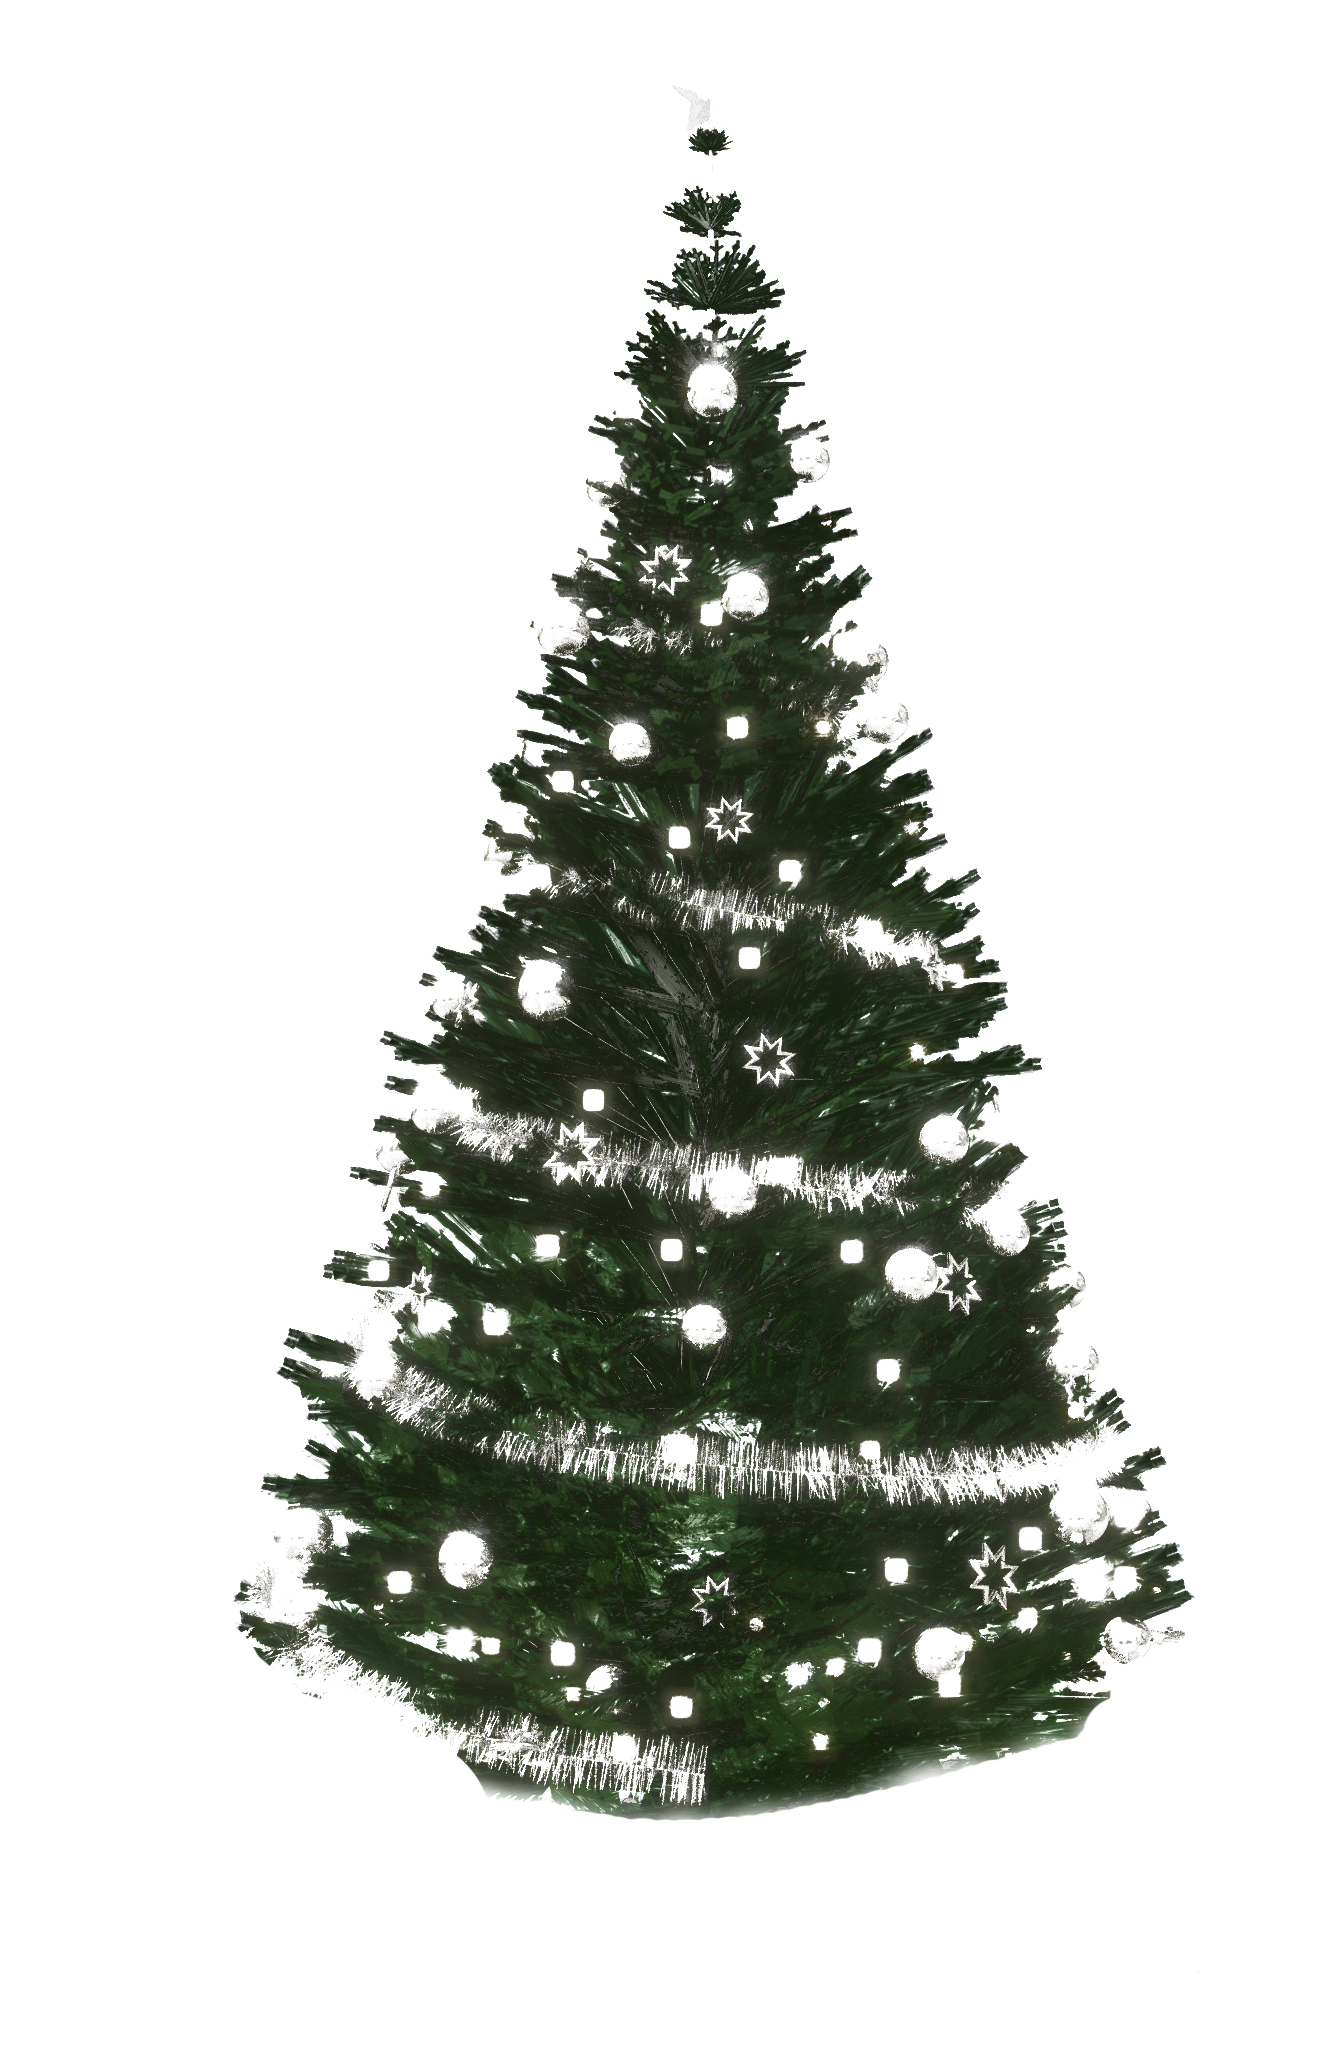
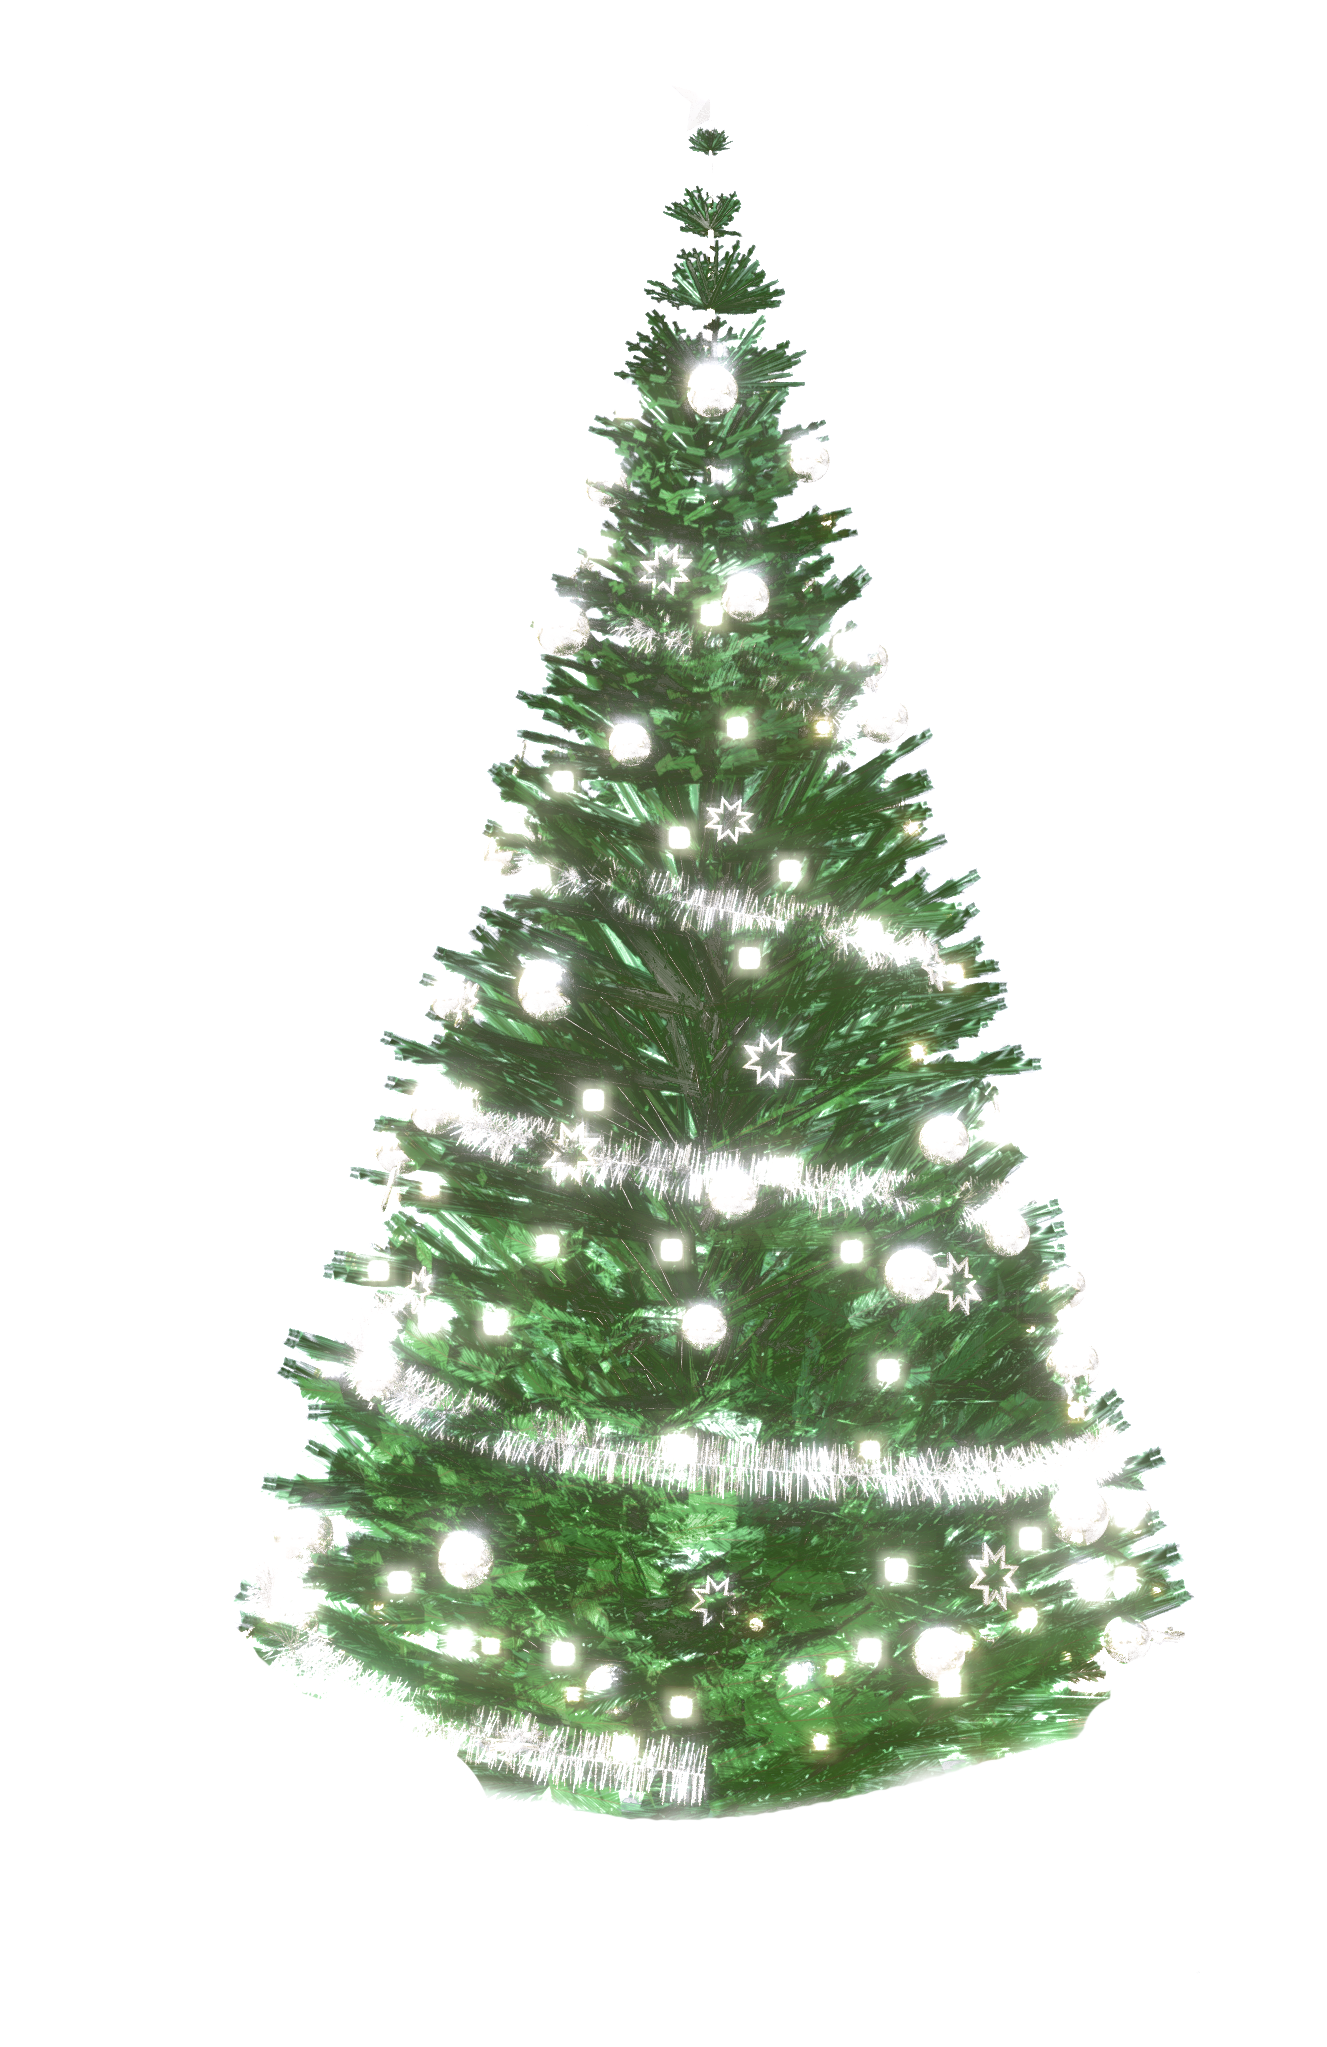
[CHANGE] Improve colorability of the tree base

Changed region(s): [[0.1545, 0.0616, 0.896, 0.8925]]

diff --git a/src/assets/room_devices/christmas_tree/christmas_tree.asset.ts b/src/assets/room_devices/christmas_tree/christmas_tree.asset.ts
@@ -4,7 +4,7 @@ DefineRoomDeviceAsset({
 	colorization: {
 		tree: {
 			name: 'Tree',
-			default: '#81BE65',
+			default: '#354E25',
 		},
 		accent: {
 			name: 'Accent color',
